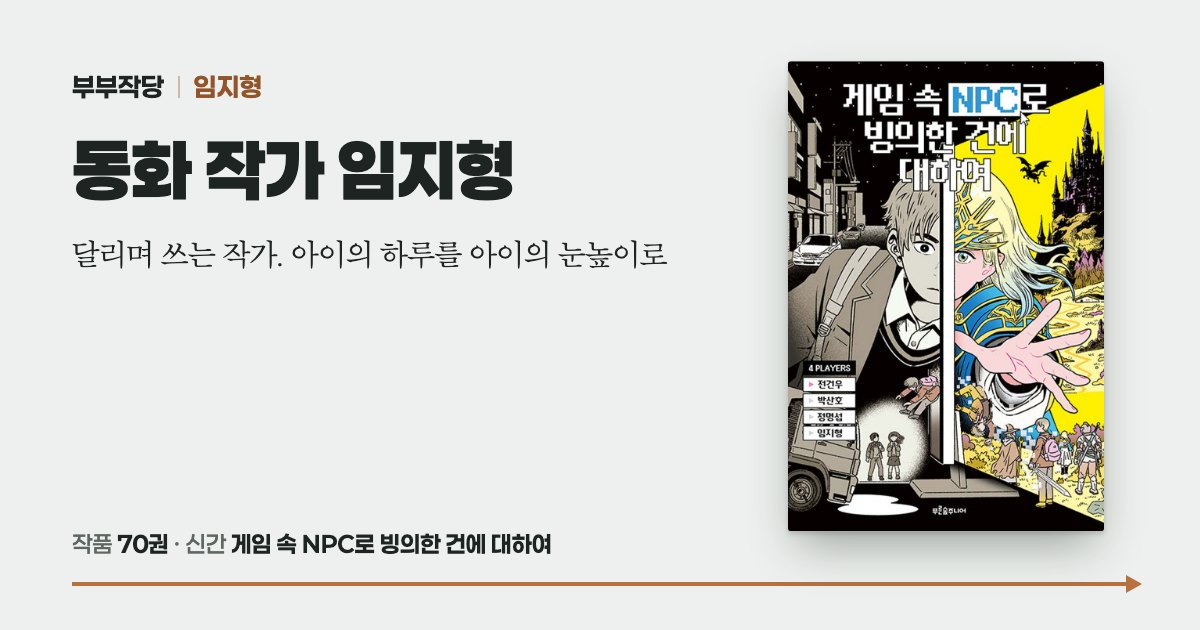
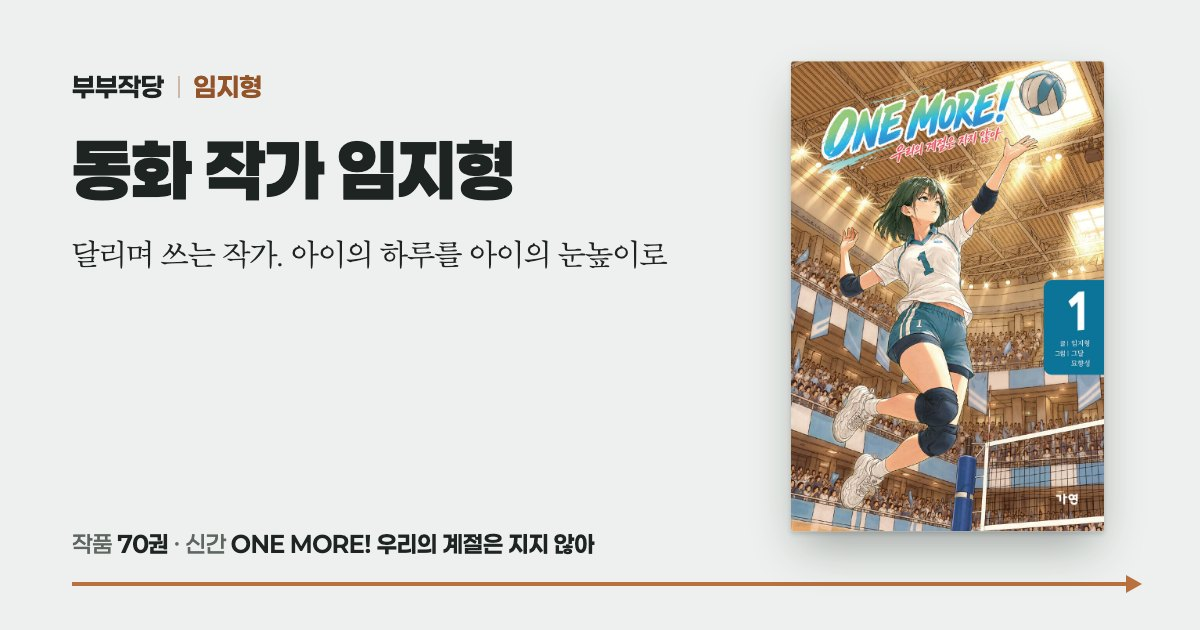
검색엔진 준비와 서가 미리보기 책 고르기
- sitemap.xml, robots.txt, 404.html
- 책 페이지 본문을 글자로 미리 채우고 책 구조화 데이터(Book) 넣기
- 서가 미리보기 책 shareBook: 임지형은 ONE MORE!
- 미리보기 그림 주소를 그림 내용으로 갱신

Changed region(s): [[0.6475, 0.0905, 0.925, 0.8444], [0.185, 0.8444, 0.4933, 0.9048]]

diff --git a/scripts/build.js b/scripts/build.js
@@ -11,6 +11,7 @@ import { fileURLToPath } from 'node:url';
 import sharp from 'sharp';
 import subsetFont from 'subset-font';
 import { sheetSvg, sweatSvg, heartSvg, FW, FH, ORDER } from './sprite.js';
+import { shareBookOf } from './share.js';
 
 const root = path.resolve(path.dirname(fileURLToPath(import.meta.url)), '..');
 const P = (...p) => path.join(root, ...p);
@@ -102,6 +103,45 @@ function aboutHtml(site, list, photo) {
 </section>`;
 }
 
+// ---------- 검색엔진용 (2026-11-08, 사용자 "1번 해") ----------
+// 책 페이지는 화면을 자바스크립트가 그리지만, 검색엔진(특히 네이버)이 읽도록 상세 칸에 같은 내용을 글자로 미리 채워 둔다.
+// 화면 모습은 그대로다: 상세 칸은 숨긴 채로 두고, app.js가 열 때 같은 자리를 다시 채운다(fillDetail).
+const AGE = Object.fromEntries(vocab.targets.map(t => [t.name, t.label]));
+function staticDetail(h, b) {
+  const fill = (open, inner) => { if (!h.includes(open + '</')) throw new Error('상세 칸 자리를 못 찾음: ' + open); h = h.replace(open + '</', () => open + inner + '</'); };
+  fill('<span class="dsub" id="dSub">', esc(b.tgt + ' / ' + b.cat + (b.series ? ' / ' + b.series + ' 시리즈' : '')));
+  fill('<h2 class="dtitle" id="dTitle">', esc(b.title));
+  fill('<p class="done" id="dOne">', esc(b.one));
+  fill('<div class="dkw" id="dKw">', b.kw.map(k => `<span>${esc(k)}</span>`).join(''));
+  fill('<p class="dsyn" id="dSyn">', esc(b.desc));
+  if (b.rec.length) fill('<div class="drec" id="dRec">', '<h3>추천·선정</h3><ul>' + b.rec.map(r => `<li>${esc(r)}</li>`).join('') + '</ul>');
+  const age = AGE[b.tgt], rows = [['지은이', b.authors.join(', ')], ['대상', b.tgt + (age && age !== b.tgt ? ` (${age})` : '')]];
+  if (b.cat && b.cat !== '일반' && b.cat !== b.tgt) rows.push(['분류', b.cat]);
+  rows.push(['출간', b.ed ? `${b.y}년 첫 출간, ${b.ed}년 개정판` : `${b.y}년`]);
+  if (b.pages) rows.push(['쪽수', b.pages + '쪽']);
+  rows.push(['출판사', b.pub]); if (b.isbn) rows.push(['ISBN', b.isbn]);
+  fill('<div class="dbib" id="dBib">', '<h3>도서 정보</h3><dl>' + rows.map(([k, v]) => `<dt>${esc(k)}</dt><dd>${esc(v)}</dd>`).join('') + '</dl>');
+  const shops = [['yes24', 'YES24'], ['kyobo', '교보문고'], ['aladin', '알라딘']].filter(([k]) => /^https:\/\//.test(b.links[k] || ''));
+  if (shops.length) fill('<div class="dbuy" id="dBuy">', '<h3>서점에서 보기</h3><div class="shops">' + shops.map(([k, l]) => `<a href="${esc(b.links[k])}" target="_blank" rel="noopener">${esc(l)}</a>`).join('') + '</div>');
+  return h;
+}
+// 책 정보 구조화 데이터(schema.org Book). 검색 결과에 책 정보로 보이게 돕는다.
+const bookLd = (b, URL0, key, hasImg) => '<script type="application/ld+json">' + safeJson({
+  '@context': 'https://schema.org', '@type': 'Book', name: b.title, url: URL0 + key + '/',
+  author: b.authors.map(n => ({ '@type': 'Person', name: n })), inLanguage: 'ko', genre: b.cat,
+  audience: { '@type': 'Audience', audienceType: b.tgt + (AGE[b.tgt] && AGE[b.tgt] !== b.tgt ? ` (${AGE[b.tgt]})` : '') },
+  keywords: b.kw.join(', '), description: b.desc, datePublished: String(b.y),
+  ...(b.isbn ? { isbn: b.isbn } : {}), ...(b.pages ? { numberOfPages: b.pages } : {}),
+  publisher: { '@type': 'Organization', name: b.pub }, ...(hasImg ? { image: URL0 + 'og/' + key + '.jpg' } : {}),
+}) + '</script>';
+// 없는 주소 화면. Cloudflare Pages는 404.html이 없으면 아무 주소에나 첫 화면을 200으로 보내(검색엔진에는 같은 페이지가 끝없이 보임) 따로 둔다.
+const notFound = (title, links) => `<!doctype html><html lang="ko"><head><meta charset="utf-8"><meta name="viewport" content="width=device-width,initial-scale=1"><meta name="robots" content="noindex"><title>페이지를 찾을 수 없어요 · ${esc(title)}</title>
+<style>:root{--p:#EDF0EE;--i:#1E2421;--m:#5E6661;--a:#93542A;color-scheme:light}@media (prefers-color-scheme:dark){:root{--p:#171B19;--i:#E9ECE9;--m:#A2AAA5;--a:#E0A274;color-scheme:dark}}
+body{margin:0;min-height:100vh;display:grid;place-items:center;background:var(--p);color:var(--i);font-family:'Pretendard',system-ui,sans-serif;padding:24px;box-sizing:border-box}
+main{max-width:420px}h1{margin:0 0 12px;font-size:22px;color:var(--a)}p{margin:0 0 24px;line-height:1.6;color:var(--m)}
+a{display:inline-flex;align-items:center;height:44px;padding:0 18px;border:1px solid var(--a);background:var(--a);color:var(--p);font-weight:700;text-decoration:none;margin:0 8px 8px 0}</style></head>
+<body><main><h1>이 주소에는 페이지가 없어요</h1><p>주소가 바뀌었거나 잘못 입력되었을 수 있어요.</p>${links.map(([h, t]) => `<a href="${esc(h)}">${esc(t)}</a>`).join('')}</main></body></html>`;
+
 const sites = fs.readdirSync(P('sites')).filter(f => f.endsWith('.json')).map(f => JSON.parse(fs.readFileSync(P('sites', f), 'utf8')));
 const built = [];
 for (const site of sites) {
@@ -167,26 +207,39 @@ for (const site of sites) {
     `<meta property="og:title" content="${esc(title)}">`,
     `<meta property="og:description" content="${esc(desc)}">`,
     ...(URL0 ? [`<meta property="og:url" content="${esc(URL0 + pagePath)}">`, `<link rel="canonical" href="${esc(URL0 + pagePath)}">`] : []),
-    ...(URL0 && hasOg(img) ? [`<meta property="og:image" content="${esc(URL0 + 'og/' + img)}?v=${VER}">`, '<meta property="og:image:width" content="1200">', '<meta property="og:image:height" content="630">', '<meta name="twitter:card" content="summary_large_image">'] : [])
+    // 그림 주소 끝 ?v=는 그림 내용으로 정한다: 그림만 바뀌어도(예: 서가 미리보기 책을 바꿈) 카톡이 새 그림을 가져가게
+    ...(URL0 && hasOg(img) ? [`<meta property="og:image" content="${esc(URL0 + 'og/' + img)}?v=${crypto.createHash('sha1').update(fs.readFileSync(path.join(ogOut, img))).digest('hex').slice(0, 8)}">`, '<meta property="og:image:width" content="1200">', '<meta property="og:image:height" content="630">', '<meta name="twitter:card" content="summary_large_image">'] : [])
   ].join('\n');
   const noPh = h => { if (/\{\{[A-Z_]+\}\}/.test(h)) throw new Error('채워지지 않은 자리표시자가 있습니다: ' + h.match(/\{\{[A-Z_]+\}\}/)[0]); return h; };
-  const newest = list.slice().sort((a, b) => b.y - a.y || a.title.localeCompare(b.title, 'ko'))[0];
+  const newest = shareBookOf(site, list); // 서가 미리보기 설명의 '신간 『…』'. shareBook이 있으면 그 책(scripts/og.js와 같은 규칙)
   const siteDesc = site.description || `${site.author} 작가의 작품 ${list.length}권을 대상 학년과 주제로 찾아볼 수 있는 서가`;
   fs.writeFileSync(path.join(out, 'index.html'), noPh(html
     .replace('{{BASE}}', '<base href="./">') // 기준 주소를 처음에 고정한다. 서가 안에서 책 주소로 옮겨 가도 표지·글꼴 경로가 서가 뿌리 기준으로 남는다
-    .replace('{{OG}}', () => ogTags({ type: 'website', title: `${site.role ? site.role + ' ' : ''}${site.author} · ${site.brandSub || '작품 서가'}`, desc: `신간 『${newest.title}』 · ${siteDesc}`, pagePath: '', img: 'site.jpg' }))));
+    .replace('{{OG}}', () => ogTags({ type: 'website', title: `${site.role ? site.role + ' ' : ''}${site.author} · ${site.brandSub || '작품 서가'}`, desc: `신간 『${newest.title}』 · ${siteDesc}`, pagePath: '', img: 'site.jpg' }) +
+      (URL0 ? '\n<script type="application/ld+json">' + safeJson({ '@context': 'https://schema.org', '@type': 'WebSite', name: site.title, url: URL0, inLanguage: 'ko', description: siteDesc,
+        about: { '@type': 'Person', name: site.author, ...(site.role ? { jobTitle: site.role } : {}) } }) + '</script>' : ''))
+    // 자바스크립트 없이 읽는 검색엔진을 위한 책 목록(화면에는 보이지 않는다)
+    .replace('</body>', () => '<noscript><nav aria-label="전체 작품 목록"><h2>' + esc(site.author) + ' 전체 작품</h2><ul>' +
+      list.slice().sort((a, b) => b.y - a.y || a.title.localeCompare(b.title, 'ko')).map(b => `<li><a href="${esc(keyOf(b))}/">${esc(b.title)}</a> (${esc(b.tgt)}, ${b.y})</li>`).join('') + '</ul></nav></noscript>\n</body>')));
   const noOg = [];
   for (const b of list) {
     const k = keyOf(b), d = path.join(out, k);
     if (!hasOg(k + '.jpg')) noOg.push(b.title);
     fs.mkdirSync(d, { recursive: true });
-    fs.writeFileSync(path.join(d, 'index.html'), noPh(html
+    fs.writeFileSync(path.join(d, 'index.html'), noPh(staticDetail(html, b)
       // 끝 '/' 없이 들어오면(서버에 따라) 그림 경로가 어긋나므로 '/'를 붙여 다시 연다
       .replace('{{BASE}}', () => `<script>if(!location.pathname.endsWith('/'))location.replace(location.pathname+'/'+location.search+location.hash)</script>\n<base href="../">`)
       .replace(/<title>[^<]*<\/title>/, () => `<title>${esc(b.title)} · ${esc(site.title)}</title>`)
-      .replace(/<meta name="description" content="[^"]*">/, () => `<meta name="description" content="${esc(b.one)}">`)
-      .replace('{{OG}}', () => ogTags({ type: 'book', title: `${b.title} · ${site.author}`, desc: b.one, pagePath: k + '/', img: k + '.jpg' }))));
+      .replace(/<meta name="description" content="[^"]*">/, () => `<meta name="description" content="${esc(`${b.one} ${b.authors.join(', ')} 작가의 ${b.tgt}${b.cat && b.cat !== b.tgt ? ' ' + b.cat : ''}(${b.y}). 주제: ${b.kw.join(', ')}.`)}">`)
+      .replace('{{OG}}', () => ogTags({ type: 'book', title: `${b.title} · ${site.author}`, desc: b.one, pagePath: k + '/', img: k + '.jpg' }) + (URL0 ? '\n' + bookLd(b, URL0, k, hasOg(k + '.jpg')) : ''))));
   }
+  // 검색엔진에 알리는 파일: sitemap.xml(첫 화면 + 책 주소 전부), robots.txt, 없는 주소 화면 404.html
+  if (URL0) {
+    const urls = [URL0, ...list.map(b => URL0 + keyOf(b) + '/')];
+    fs.writeFileSync(path.join(out, 'sitemap.xml'), '<?xml version="1.0" encoding="UTF-8"?>\n<urlset xmlns="http://www.sitemaps.org/schemas/sitemap/0.9">\n' + urls.map(u => `<url><loc>${esc(u)}</loc></url>`).join('\n') + '\n</urlset>\n');
+    fs.writeFileSync(path.join(out, 'robots.txt'), `User-agent: *\nAllow: /\nSitemap: ${URL0}sitemap.xml\n`);
+  }
+  fs.writeFileSync(path.join(out, '404.html'), notFound(site.title, [[URL0 || './', site.title + ' 첫 화면으로']]));
   if (!URL0) console.warn(`[${site.slug}] 배포 주소(sites/${site.slug}.json의 "url")가 없어 미리보기 그림 태그를 넣지 않았습니다. 카카오톡 미리보기에 그림이 뜨지 않습니다.`);
   if (noOg.length) console.warn(`[${site.slug}] 미리보기 그림이 없는 책 ${noOg.length}권: ${noOg.slice(0, 5).join(', ')}${noOg.length > 5 ? ' …' : ''} → npm run og`);
   await serifSubset(html.replace(/<[^>]+>/g, ''), path.join(out, 'assets', 'fonts'));
@@ -208,4 +261,5 @@ if (!only) {
     (built.length === 1 ? `<meta http-equiv="refresh" content="0; url=${esc(built[0].slug)}/">` : '') +
     `<style>body{font-family:system-ui,sans-serif;max-width:560px;margin:15vh auto;padding:0 20px}a{color:#1F3FB0}</style><h1>작품 서가</h1><ul>${links}</ul>`);
   fs.writeFileSync(P('dist', '.nojekyll'), '');
+  fs.writeFileSync(P('dist', '404.html'), notFound('작품 서가', built.map(s => [s.url || s.slug + '/', s.title])));
 }

diff --git a/scripts/og.js b/scripts/og.js
@@ -1,6 +1,6 @@
 // 카카오톡 등에 링크를 붙였을 때 뜨는 미리보기 그림(1200×630)을 만든다. 2026-11-08 (시안 시안/address_v1 가안)
 //   data/og/<slug>/<ISBN>.jpg  책마다 하나 (ISBN이 없으면 <ID>.jpg)
-//   data/og/<slug>/site.jpg    서가 첫 화면용. 신간 표지를 쓴다(진열대 가운데 책과 같은 규칙)
+//   data/og/<slug>/site.jpg    서가 첫 화면용. sites/*.json의 shareBook(ISBN 또는 ID)이 있으면 그 책, 없으면 신간(진열대 가운데 책과 같은 규칙)
 // 배포(GitHub Actions)에는 브라우저가 없어서, 표지처럼 여기서 만들어 data/og에 넣어 두고 build는 복사만 한다.
 // 바뀐 책만 다시 찍는다(그림에 들어가는 글·표지·디자인이 같으면 건너뜀).
 //
@@ -22,8 +22,8 @@ const CH = JSON.parse(fs.readFileSync(P('data', 'channel.json'), 'utf8'));
 const LABEL = Object.fromEntries(vocab.targets.map(t => [t.name, t.label]));
 const esc = s => String(s ?? '').replace(/[&<>"']/g, c => ({ '&': '&amp;', '<': '&lt;', '>': '&gt;', '"': '&quot;', "'": '&#39;' }[c]));
 const sha = s => crypto.createHash('sha1').update(s).digest('hex').slice(0, 12);
-// 진열대 가운데 책과 같은 순서 (src/app.js newestFirst)
-export const newestFirst = (a, b) => b.y - a.y || a.title.localeCompare(b.title, 'ko');
+import { newestFirst, shareBookOf } from './share.js';
+export { newestFirst };
 
 // 색은 채널 이름표 색. 바탕은 서가와 같은 회녹색 종이(#EDF0EE). 크림색은 쓰지 않는다.
 const COLOR = { orange: { me: '#b8703f', accent: '#93542A' }, green: { me: '#3d7f5c', accent: '#2F6B4C' } };
@@ -77,7 +77,7 @@ for (const site of sites) {
   const metaF = path.join(dir, 'og-meta.json');
   const old = fs.existsSync(metaF) ? JSON.parse(fs.readFileSync(metaF, 'utf8')) : {};
   const meta = {};
-  const jobs = [[list.slice().sort(newestFirst)[0], true, 'site.jpg'], ...list.map(b => [b, false, (b.isbn || b.id) + '.jpg'])];
+  const jobs = [[shareBookOf(site, list), true, 'site.jpg'], ...list.map(b => [b, false, (b.isbn || b.id) + '.jpg'])];
   for (const [b, isSite, file] of jobs) {
     const html = cardHtml(site, list, b, isSite);
     const key = sha(html + fs.statSync(P('data', 'covers', b.cover)).size + ':' + fs.statSync(P('data', 'covers', b.cover)).mtimeMs);
@@ -97,7 +97,7 @@ for (const site of sites) {
   // 목록에서 빠진 책의 그림은 지운다
   for (const f of fs.readdirSync(dir)) if (f.endsWith('.jpg') && !meta[f]) { fs.rmSync(path.join(dir, f)); console.log(`[${site.slug}] 지움: ${f}`); }
   fs.writeFileSync(metaF, JSON.stringify(meta, null, 1) + '\n');
-  console.log(`[${site.slug}] 미리보기 그림 ${jobs.length}장 → data/og/${site.slug}/ (신간: ${jobs[0][0].title})`);
+  console.log(`[${site.slug}] 미리보기 그림 ${jobs.length}장 → data/og/${site.slug}/ (서가 미리보기: ${jobs[0][0].title})`);
 }
 if (browser) await browser.close();
 fs.rmSync(tmp, { force: true });

diff --git a/scripts/share.js b/scripts/share.js
@@ -1,0 +1,11 @@
+// og.js와 build.js가 함께 쓰는 규칙.
+// 진열대 가운데 책과 같은 순서 (src/app.js newestFirst)
+export const newestFirst = (a, b) => b.y - a.y || a.title.localeCompare(b.title, 'ko');
+// 서가 미리보기(카톡 등)에 쓸 책 (2026-11-08): sites/*.json의 shareBook(ISBN 또는 ID)을 정하면 그 책, 없으면 신간.
+// 임지형은 신간이 앤솔러지라 작가 요청으로 'ONE MORE!'를 쓴다. 진열대 첫 화면 순서는 바꾸지 않는다.
+export function shareBookOf(site, list) {
+  if (!site.shareBook) return list.slice().sort(newestFirst)[0];
+  const b = list.find(x => x.isbn === site.shareBook || x.id === site.shareBook);
+  if (!b) throw new Error(`[${site.slug}] shareBook '${site.shareBook}'인 책이 이 서가에 없습니다.`);
+  return b;
+}

diff --git a/CLAUDE.md b/CLAUDE.md
@@ -17,11 +17,14 @@
 - `src/` — 모든 서가가 함께 쓰는 화면 코드. `index.html`(틀), `style.css`, `app.js`.
 - `data/og/<slug>/` — 카카오톡 미리보기 그림(1200×630). 책마다 `<ISBN>.jpg`, 서가용 `site.jpg`(신간 표지). `npm run og`가 만든다. 배포 서버에는 브라우저가 없어서 표지처럼 여기서 만들어 함께 올린다. 직접 고치지 않는다.
 - `scripts/import.js`, `scripts/build.js`, `scripts/og.js`, `scripts/shot.js`, `scripts/serve.js`(GitHub Pages처럼 동작하는 작은 서버)
+- 검색엔진용(2026-11-08): build가 서가마다 `sitemap.xml`·`robots.txt`(`url`이 있을 때), `404.html`(없는 주소 화면. 없으면 Cloudflare Pages가 아무 주소에나 첫 화면을 200으로 보낸다)을 만든다. 책 페이지는 상세 칸(제목·소개·주제·추천·도서 정보·서점)을 HTML에 글자로 미리 채우고(숨긴 채, app.js가 같은 자리를 다시 채움) 책 구조화 데이터(schema.org Book)를 넣는다. 첫 화면에는 WebSite 데이터와 `<noscript>` 책 목록. 검색 등록: 네이버 서치어드바이저·구글 서치 콘솔에 https://limjh.kr/ 와 sitemap.xml(사용자 계정).
+- 서가 미리보기 책(`shareBook`, ISBN 또는 ID): 카톡 등에 서가 주소를 붙였을 때 그림·설명에 쓰는 책. 없으면 신간. 임지형은 'ONE MORE!'(9788968971464, 2026-11-08 작가 요청: 신간이 앤솔러지라서). 진열대 첫 화면 순서와는 상관없다. 규칙은 `scripts/share.js`(og.js·build.js가 같이 씀). 바꾸면 `npm run og` → build. 미리보기 그림 주소의 `?v=`는 그림 내용으로 정해져 그림만 바뀌어도 카톡이 새로 가져간다.
 - `dist/` — 빌드 결과(자동 생성, 커밋하지 않음). `.github/workflows/deploy.yml`이 GitHub Pages로 배포한다.
 - 저장소: https://github.com/gloryfactory-hash/bookshelf (공개, 2026-11-08). 사이트: https://gloryfactory-hash.github.io/bookshelf/limjihyung/
   - `main`에 올리면 Actions가 import → build → Pages 배포를 한다. 배포(올리기)는 사용자가 하라고 할 때만 한다.
 - 임지형 서가 대표 주소: **https://limjh.kr/** (2026-11-08부터. 그 전에는 노션 페이지로 넘겨주던 주소). 도메인은 가비아에서 샀고 DNS는 Cloudflare(계정 gloryfactory@gmail.com, 존 limjh.kr).
   - Cloudflare Pages 프로젝트 `limjh`(limjh.pages.dev)에 `dist/limjihyung`을 직접 올린다. limjh.kr·www.limjh.kr은 이 프로젝트에 붙어 있다(DNS CNAME → limjh.pages.dev, 주황 구름).
+  - 방문 지표: Cloudflare Web Analytics(2026-11-08 켬, 무료, 쿠키 없음). limjh.kr 존에 자동 삽입(auto_install)이라 src에 코드를 넣지 않는다. 보는 곳: 대시보드 → Analytics & Logs → Web Analytics → limjh.kr. github.io 방문과 단추 클릭 수는 세지 않는다.
   - 노션으로 넘겨주던 Cloudflare 넘겨주기 규칙(Rules → Redirect Rules, 'default' 안의 규칙)은 지우지 않고 꺼 두었다. 다시 켜면 노션으로 돌아간다(그때는 DNS도 되돌려야 한다).
   - **올릴 때는 둘 다:** GitHub에 올리기(github.io도 계속 열리게) + 사용자 터미널에서 `node scripts/build.js limjihyung && npx --yes wrangler@4 pages deploy dist/limjihyung --project-name limjh --branch main --commit-dirty=true` (wrangler 로그인이 사용자 터미널에 있다). 카톡 미리보기 태그의 주소는 `sites/limjihyung.json`의 `url`(https://limjh.kr/)이라 github.io에서 열어도 대표 주소는 limjh.kr로 잡힌다.
   - 공개 저장소라 `회의록.md`, `시안/`, `.claude/`, `.impeccable/`은 올리지 않는다(.gitignore). 커밋 작성자 메일은 깃허브 공개용 주소(`282479204+gloryfactory-hash@users.noreply.github.com`, 이 폴더의 git 설정)를 쓴다.
